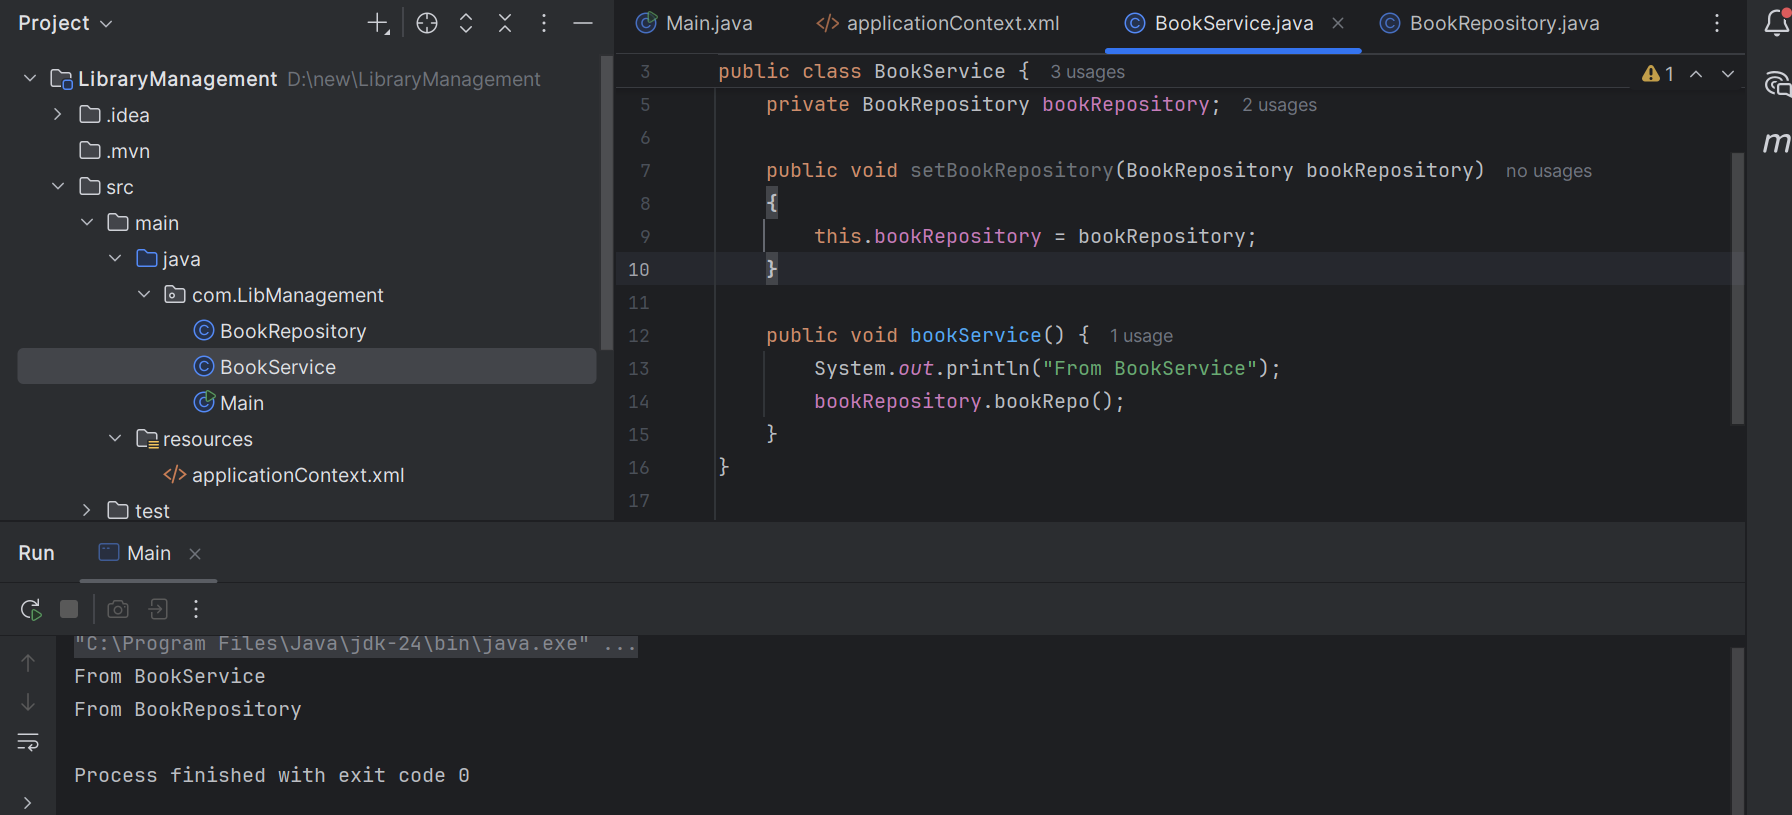
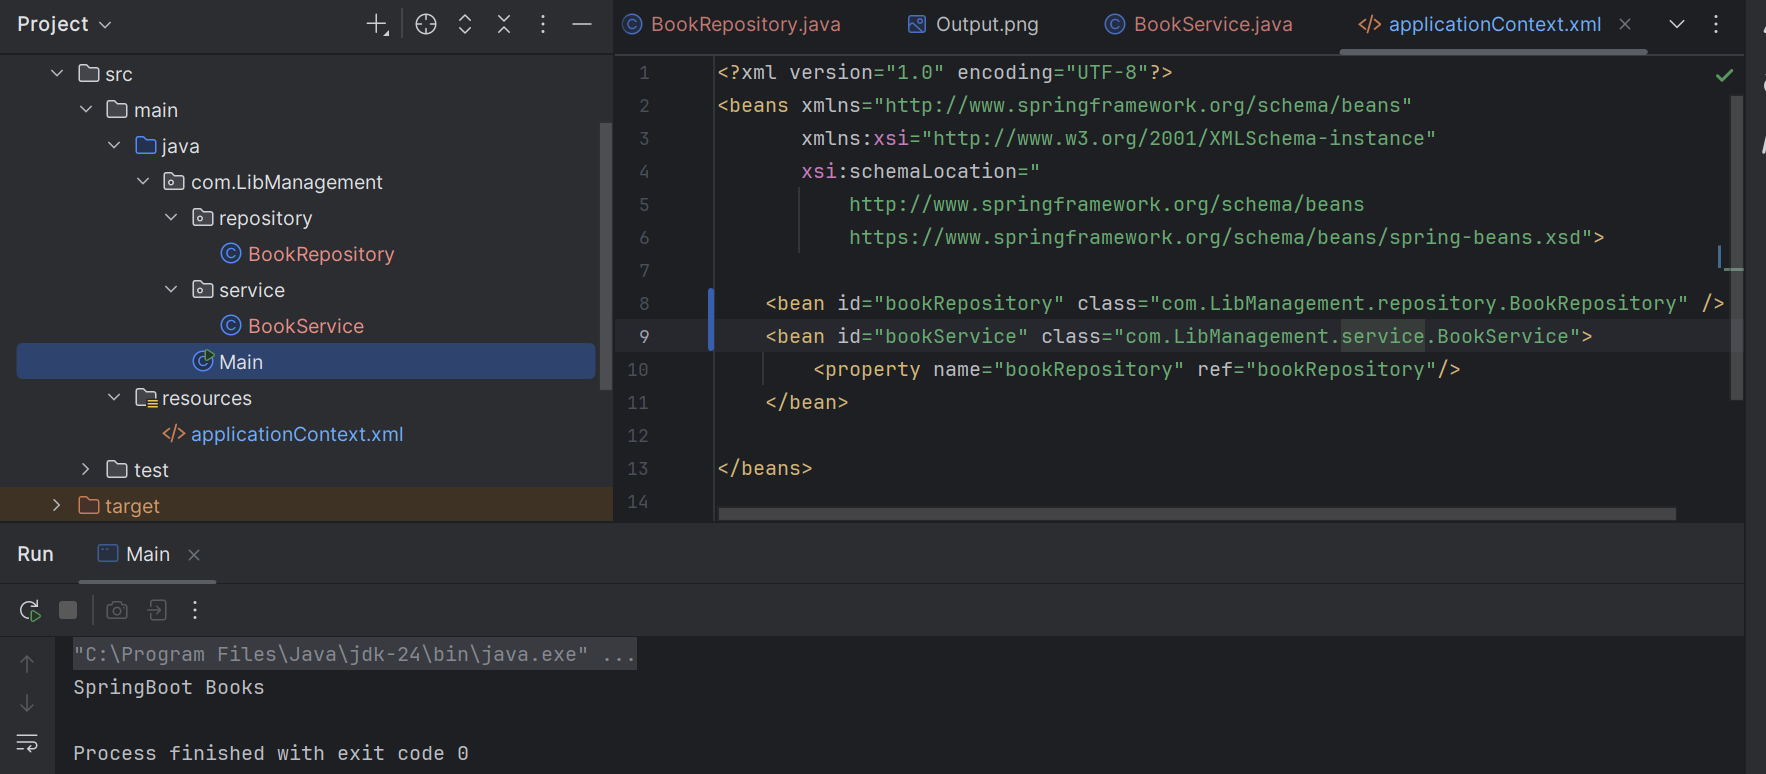
Improved Depenency Injection

diff --git a/Week3/Implementing_Dependency_Injection/src/main/java/com/LibManagement/Main.java b/Week3/Implementing_Dependency_Injection/src/main/java/com/LibManagement/Main.java
@@ -1,5 +1,6 @@
 package com.LibManagement;
 
+import com.LibManagement.service.BookService;
 import org.springframework.context.ApplicationContext;
 import org.springframework.context.support.ClassPathXmlApplicationContext;
 
@@ -7,7 +8,7 @@ public class Main {
     public static void main(String[] args) {
         ApplicationContext context = new ClassPathXmlApplicationContext("applicationContext.xml");
 
-        BookService service = context.getBean("bookService", BookService.class);
-        service.bookService();
+        BookService bookService=(BookService) context.getBean("bookService");
+        bookService.addBook("SpringBoot Books");
     }
 }

diff --git a/Week3/Implementing_Dependency_Injection/src/main/java/com/LibManagement/service/BookService.java b/Week3/Implementing_Dependency_Injection/src/main/java/com/LibManagement/service/BookService.java
@@ -1,0 +1,14 @@
+package com.LibManagement.service;
+
+import com.LibManagement.repository.BookRepository;
+
+public class BookService {
+  private BookRepository bookRepository;
+   public void setBookRepository(BookRepository bookRepository){
+     this.bookRepository=bookRepository;
+   }
+   public void addBook(String bookname){
+    bookRepository.saveBook(bookname);
+   }
+
+}

diff --git a/Week3/Implementing_Dependency_Injection/src/main/java/com/LibManagement/repository/BookRepository.java b/Week3/Implementing_Dependency_Injection/src/main/java/com/LibManagement/repository/BookRepository.java
@@ -1,0 +1,7 @@
+package com.LibManagement.repository;
+
+public class BookRepository {
+    public void saveBook(String Name){
+        System.out.println(Name);
+    }
+}
